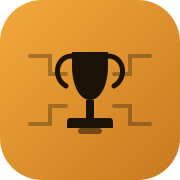
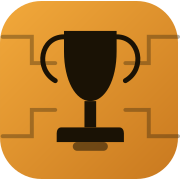
fix(auth): restore backend-driven tournament management permission

diff --git a/src/lib/api/client.ts b/src/lib/api/client.ts
@@ -445,13 +445,22 @@ export const api = {
     return data.map(toTournamentSummary);
   },
 
-  getTournament: cache(async (id: number, token?: string): Promise<TournamentDetail> => {
-    const { data } = await request<Wrapped<ApiTournamentDetail>>(
-      `/tournaments/${id}`,
-      token ? { headers: authHeader(token) } : undefined,
-    );
+  getTournament: cache(async (id: number): Promise<TournamentDetail> => {
+    const { data } = await request<Wrapped<ApiTournamentDetail>>(`/tournaments/${id}`);
     return toTournamentDetail(data);
   }),
+
+  /**
+   * The tournament detail fetched WITH the caller's token, so `canManage` reflects the
+   * backend policy (owner, template read-only, …). Deliberately not `cache()`-wrapped:
+   * the manage screen needs the authoritative, token-scoped answer every time.
+   */
+  getManagedTournament: async (token: string, id: number): Promise<TournamentDetail> => {
+    const { data } = await request<Wrapped<ApiTournamentDetail>>(`/tournaments/${id}`, {
+      headers: authHeader(token),
+    });
+    return toTournamentDetail(data);
+  },
 
   createTournament: async (token: string, name: string): Promise<TournamentSummary> => {
     const { data } = await request<Wrapped<ApiTournamentSummary>>("/tournaments", {

diff --git a/src/components/tournaments/ManageScreen.tsx b/src/components/tournaments/ManageScreen.tsx
@@ -19,7 +19,7 @@ export function ManageScreen({ tournamentId }: { tournamentId: number }) {
     let active = true;
     (async () => {
       try {
-        const loaded = await api.getTournament(tournamentId, token);
+        const loaded = await api.getManagedTournament(token, tournamentId);
         if (active) setDetail(loaded);
       } catch (err) {
         if (active) notifyApiError(err);

diff --git a/src/components/shell/PhasePills.test.tsx b/src/components/shell/PhasePills.test.tsx
@@ -1,3 +1,4 @@
+// @vitest-environment jsdom
 import { beforeEach, describe, expect, it, vi } from "vitest";
 import { render, screen } from "@testing-library/react";
 import type { PhasePill } from "@/lib/types";

diff --git a/src/components/standings/GroupCard.test.tsx b/src/components/standings/GroupCard.test.tsx
@@ -1,3 +1,4 @@
+// @vitest-environment jsdom
 import { describe, expect, it } from "vitest";
 import { render, screen } from "@testing-library/react";
 import type { Group, StandingRow } from "@/lib/types";